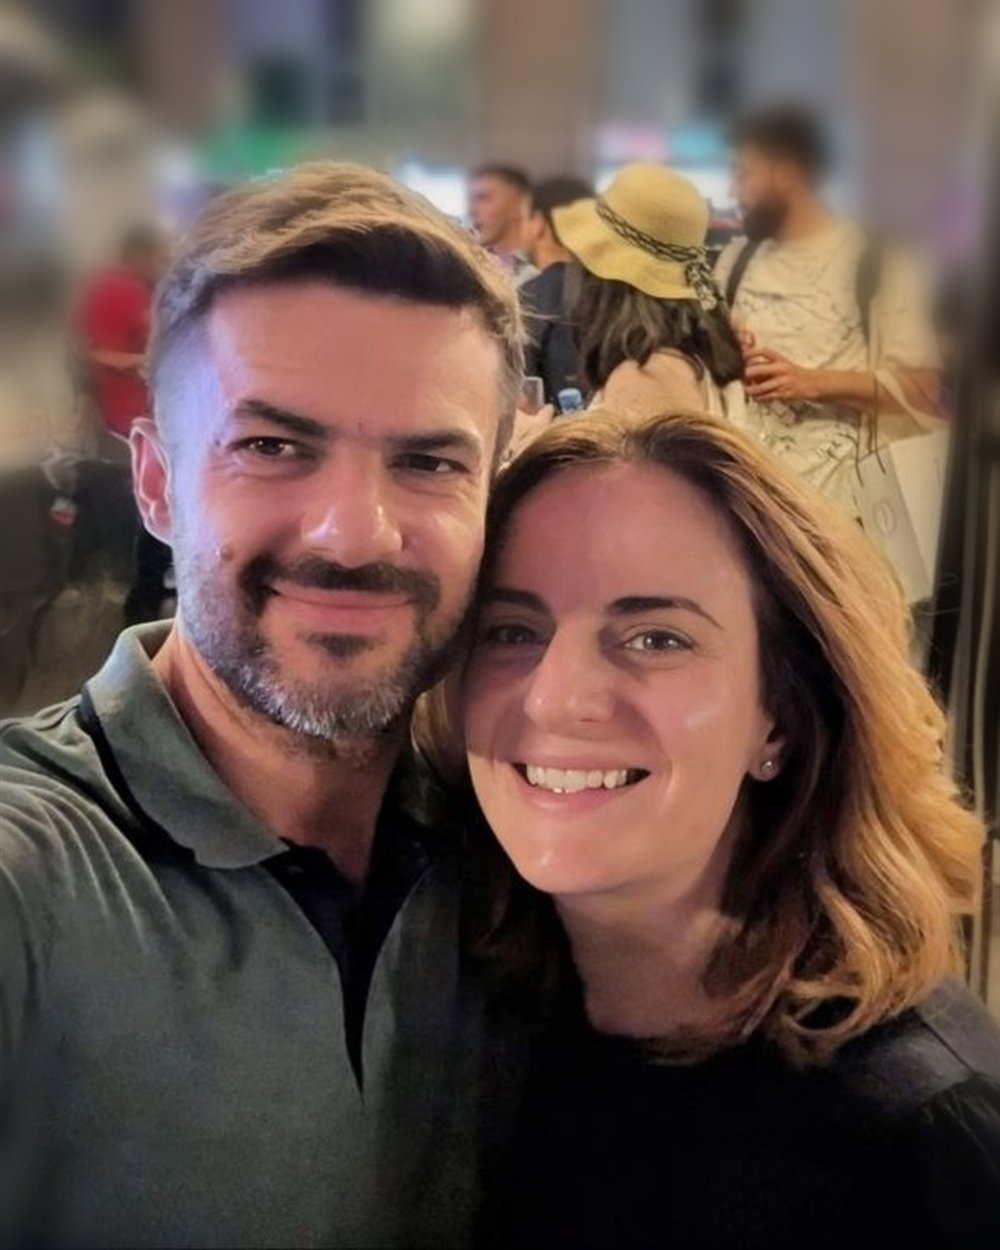
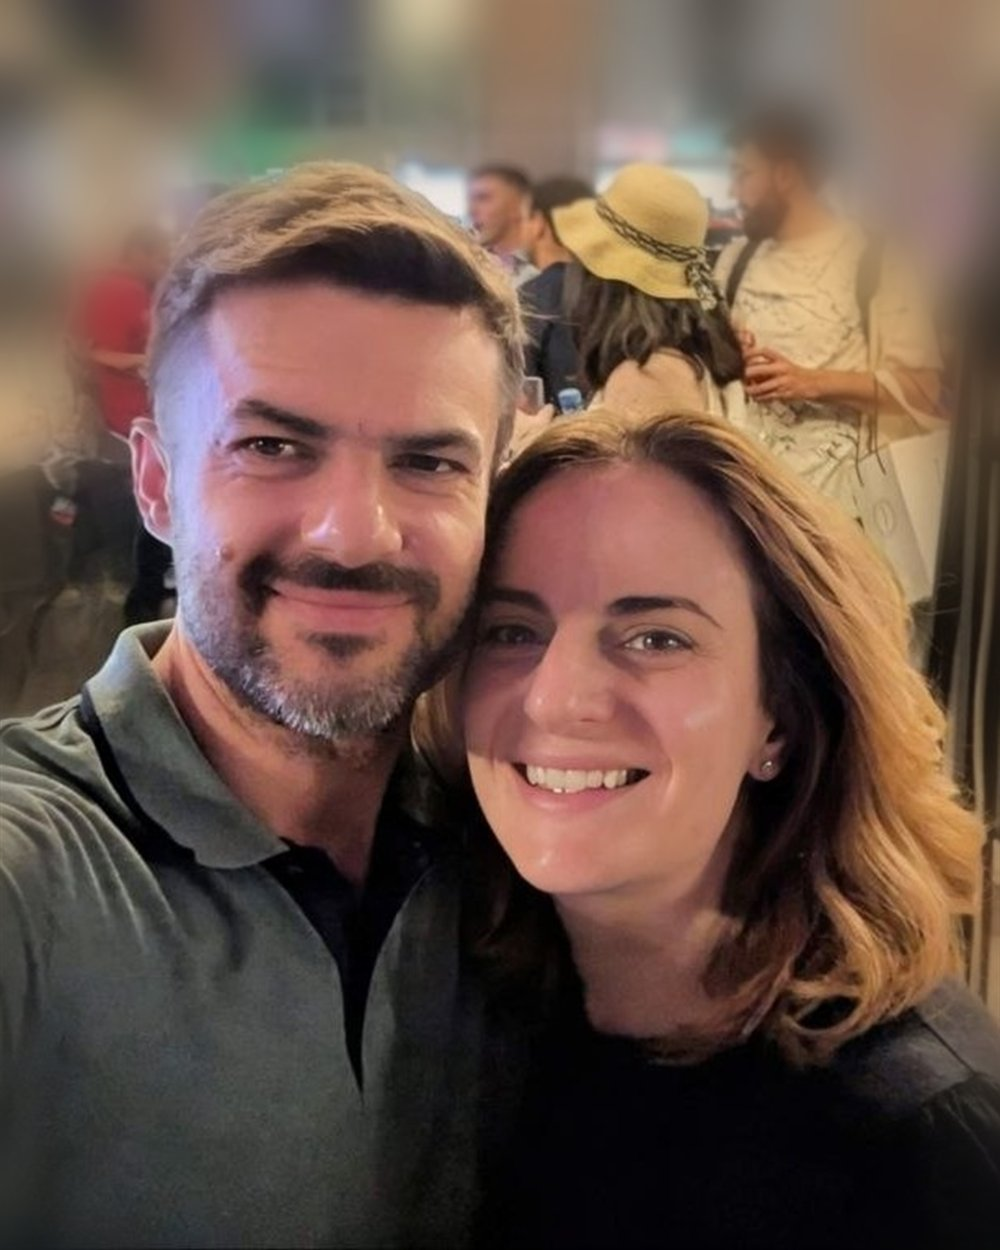
Reference layout: poster photograph and deeper backgrounds
Visual only - no typography was touched.

- The hero photograph runs as a full-bleed poster: edge to edge and
  about two thirds of the screen on a phone, a wide band at the
  in-between widths, and the full-height side panel on desktop. The
  portrait crop is used wherever the frame is tall, the wide one where
  it is wide.
- Rework the photograph's background: heavier defocus, the highlights
  pulled out and bloomed into bokeh, and a warm grade. All of it is
  applied outside the elliptical mask, so both faces are untouched.
- The cover's forest is taller, stronger and mistier, fading up into
  the cream instead of sitting faintly at the foot.
- Soften and widen the feather where the desktop panel meets the cream.
- Raise the cover tagline's contrast, which the deeper forest needed.

Checked at 360, 390, 768, 1100, 1440 and 1920: no overflow, no
scrollbar, text never crosses the photograph.

diff --git a/assets/css/style.css b/assets/css/style.css
@@ -200,7 +200,8 @@ a { color: inherit; }
   font-size: 0.68rem;
   letter-spacing: 0.34em;
   text-transform: uppercase;
-  color: var(--espresso-45);
+  /* the deeper forest behind it needs more contrast than espresso-45 */
+  color: var(--espresso-70);
   padding-left: 0.34em;
 }
 
@@ -241,15 +242,15 @@ a { color: inherit; }
 .cover__forest {
   position: absolute;
   left: 0; right: 0; bottom: 0;
-  height: 38vh;
+  height: 54vh;
   /* asset: cover forest — paths here are relative to this stylesheet */
   background-image: url("../img/dilijan-forest-soft.jpg");
   background-size: cover;
-  background-position: center 72%;
-  opacity: 0.36;
-  filter: saturate(0.7);
-  -webkit-mask-image: linear-gradient(to bottom, transparent 0%, rgba(0,0,0,.32) 40%, rgba(0,0,0,.85) 100%);
-          mask-image: linear-gradient(to bottom, transparent 0%, rgba(0,0,0,.32) 40%, rgba(0,0,0,.85) 100%);
+  background-position: center 76%;
+  opacity: 0.52;
+  filter: saturate(0.5) brightness(1.06);
+  -webkit-mask-image: linear-gradient(to bottom, transparent 0%, rgba(0,0,0,.18) 30%, rgba(0,0,0,.6) 62%, rgba(0,0,0,.95) 100%);
+          mask-image: linear-gradient(to bottom, transparent 0%, rgba(0,0,0,.18) 30%, rgba(0,0,0,.6) 62%, rgba(0,0,0,.95) 100%);
   pointer-events: none;
 }
 
@@ -442,10 +443,27 @@ a { color: inherit; }
 
 .hero__figure { position: relative; }
 .hero__figure img {
-  /* show the photograph whole - no crop */
-  width: 100%;
-  height: auto;
-  border-radius: 2px;
+    width: 100%;
+  height: clamp(340px, 46vh, 520px);
+  object-fit: cover;
+  object-position: center 38%;
+  border-radius: 0;
+}
+
+/* Below the desktop breakpoint the photograph runs as a poster, edge to
+   edge. The 50% here resolves against the grid column, which is the wrap's
+   inner width, so this pulls the figure out by exactly one gutter. */
+.hero__figure {
+  width: 100vw;
+  margin-left: calc(50% - 50vw);
+  margin-top: clamp(26px, 4.5vw, 40px);
+}
+
+@media (max-width: 720px) {
+  .hero__figure img {
+    height: clamp(440px, 68vh, 700px);
+    object-position: center 32%;
+  }
 }
 
 @media (min-width: 1100px) {
@@ -482,8 +500,9 @@ a { color: inherit; }
     inset: 0;
     background: linear-gradient(to right,
       var(--ivory) 0%,
-      rgba(246, 241, 232, 0.45) 4%,
-      rgba(246, 241, 232, 0) 11%);
+      rgba(246, 241, 232, 0.72) 5%,
+      rgba(246, 241, 232, 0.32) 12%,
+      rgba(246, 241, 232, 0) 22%);
   }
 }
 

diff --git a/index.html b/index.html
@@ -25,7 +25,7 @@
 <link rel="preconnect" href="https://fonts.googleapis.com">
 <link rel="preconnect" href="https://fonts.gstatic.com" crossorigin>
 <link href="https://fonts.googleapis.com/css2?family=Fraunces:ital,opsz,wght,SOFT,WONK@0,9..144,300..700,0..100,0..1;1,9..144,300..700,0..100,0..1&family=Inter:wght@300;400;500&display=swap" rel="stylesheet">
-<link rel="stylesheet" href="assets/css/style.css?v=18">
+<link rel="stylesheet" href="assets/css/style.css?v=21">
 </head>
 <body>
 
@@ -128,7 +128,10 @@
         <!-- asset: hero-couple-image — the wide frame stacks on small screens,
              the portrait crop fills the bleed panel on large ones -->
         <picture>
+          <!-- the poster is tall on phones and on the desktop side panel,
+               and a wide band only at the in-between widths -->
           <source media="(min-width: 1100px)" srcset="assets/img/hero-couple-tall.jpg" width="1000" height="1250">
+          <source media="(max-width: 720px)" srcset="assets/img/hero-couple-tall.jpg" width="1000" height="1250">
           <img src="assets/img/hero-couple.jpg" alt="Gohar and Roman together on an evening out" width="1600" height="958">
         </picture>
       </figure>
